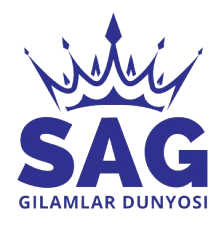
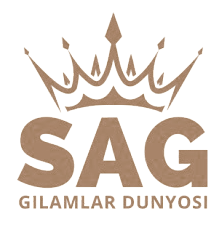
color changed

diff --git a/src/components/LanguageSelector.tsx b/src/components/LanguageSelector.tsx
@@ -1,33 +1,67 @@
+import { useEffect, useRef, useState } from 'react';
 import { useLanguage } from '../contexts/LanguageContext';
 
-interface LanguageSelectorProps {
-  navActive: boolean; // To style buttons based on navbar background
-  className?: string; // Optional for additional styling
-}
 type LanguageCode = 'uzb' | 'rus' | 'en';
 
-export const LanguageSelector = ({ navActive, className = "" }: LanguageSelectorProps): JSX.Element => {
-  const { language, setLanguage } = useLanguage();
-
- const languages: { code: LanguageCode; label: string }[] = [
+const languages: { code: LanguageCode; label: string }[] = [
   { code: 'uzb', label: "O'z" },
   { code: 'rus', label: 'Ru' },
   { code: 'en', label: 'En' },
 ];
 
+interface LanguageSelectorProps {
+  className?: string;
+  navActive: boolean;
+}
+
+export const LanguageSelector = ({ className = "", navActive }: LanguageSelectorProps): JSX.Element => {
+  const { language, setLanguage } = useLanguage();
+  const [isOpen, setIsOpen] = useState(false);
+  const dropdownRef = useRef<HTMLDivElement>(null);
+
+  // Close on outside click
+  useEffect(() => {
+    const handleClickOutside = (event: MouseEvent) => {
+      if (dropdownRef.current && !dropdownRef.current.contains(event.target as Node)) {
+        setIsOpen(false);
+      }
+    };
+
+    document.addEventListener("mousedown", handleClickOutside);
+    return () => {
+      document.removeEventListener("mousedown", handleClickOutside);
+    };
+  }, []);
+
+  const currentLang = languages.find((l) => l.code === language);
+
   return (
-    <div className={`flex items-center gap-3 ${className}`}>
-      {languages.map((lang) => (
-        <button
-          key={lang.code}
-          className={`text-[13.8px] ${language === lang.code ? 'font-bold underline' : ''} ${
-            navActive ? 'text-black' : 'text-white'
-          }`}
-          onClick={() => setLanguage(lang.code)}
-        >
-          {lang.label}
-        </button>
-      ))}
+    <div ref={dropdownRef} className={`relative ${className}`}>
+      <button
+        onClick={() => setIsOpen(!isOpen)}
+        className={`text-[13.8px] ${navActive ? 'text-black' : 'text-white'} font-semibold`}
+      >
+        {currentLang?.label}
+      </button>
+
+      {isOpen && (
+        <div className="absolute mt-2 right-0 bg-white shadow-lg border rounded z-50">
+          {languages
+            .filter((lang) => lang.code !== language) // tanlangan tilni chiqarma
+            .map((lang) => (
+              <button
+                key={lang.code}
+                onClick={() => {
+                  setLanguage(lang.code);
+                  setIsOpen(false);
+                }}
+                className="block px-4 py-2 text-sm text-left w-full text-black hover:bg-gray-100"
+              >
+                {lang.label}
+              </button>
+            ))}
+        </div>
+      )}
     </div>
   );
 };

diff --git a/src/screens/PurchaseModal.tsx b/src/screens/PurchaseModal.tsx
@@ -25,7 +25,7 @@ const PurchaseModal: React.FC<PurchaseModalProps> = ({ isOpen, onClose }) => {
       onClick={handleBackgroundClick}
       className="fixed inset-0 bg-black bg-opacity-40 flex items-center justify-center z-50"
     >
-      <div className="bg-white p-6 rounded-md w-full max-w-2xl relative shadow-lg">
+      <div className="bg-[#FFFCE0] p-6 rounded-md w-full max-w-2xl relative shadow-lg">
         {/* Close button */}
         <button
           className="absolute top-3 right-3 text-gray-500 hover:text-gray-700"
@@ -40,15 +40,15 @@ const PurchaseModal: React.FC<PurchaseModalProps> = ({ isOpen, onClose }) => {
           <div className="grid grid-cols-1 md:grid-cols-2 gap-4">
             <div>
               <label className="block text-sm font-medium text-gray-700">Ism</label>
-              <input type="text" className="w-full border border-gray-300 p-2 rounded" placeholder="Ismingiz" />
+              <input type="text" className="w-full bg-[#FFFCE0] border border-gray-300 p-2 rounded" placeholder="Ismingiz" />
             </div>
             <div>
               <label className="block text-sm font-medium text-gray-700">Telefon raqam</label>
-              <input type="tel" className="w-full border border-gray-300 p-2 rounded" placeholder="+998901234567" />
+              <input type="tel" className="w-full bg-[#FFFCE0] border border-gray-300 p-2 rounded" placeholder="+998901234567" />
             </div>
             <div>
               <label className="block text-sm font-medium text-gray-700">Shahar / Viloyat</label>
-              <select className="w-full border border-gray-300 p-2 rounded">
+              <select className="w-full border bg-[#FFFCE0] border-gray-300 p-2 rounded">
                 <option value="">Tanlang</option>
                 {cities.map((city, idx) => (
                   <option key={idx} value={city}>{city}</option>
@@ -57,13 +57,13 @@ const PurchaseModal: React.FC<PurchaseModalProps> = ({ isOpen, onClose }) => {
             </div>
             <div>
               <label className="block text-sm font-medium text-gray-700">Manzil</label>
-              <input type="text" className="w-full border border-gray-300 p-2 rounded" placeholder="To‘liq manzil" />
+              <input type="text" className="w-full bg-[#FFFCE0] border border-gray-300 p-2 rounded" placeholder="To‘liq manzil" />
             </div>
           </div>
 
           <div>
             <label className="block text-sm font-medium text-gray-700">Izoh</label>
-            <textarea className="w-full border border-gray-300 p-2 rounded" rows={3} placeholder="Qo‘shimcha izohlar..." />
+            <textarea className="w-full border bg-[#FFFCE0] border-gray-300 p-2 rounded" rows={3} placeholder="Qo‘shimcha izohlar..." />
           </div>
 
           <button type="submit" className="w-full bg-blue-900 hover:bg-blue-800 text-white py-2 rounded">

diff --git a/src/screens/CatalogProductsPage/ProductCard.tsx b/src/screens/CatalogProductsPage/ProductCard.tsx
@@ -23,7 +23,7 @@ const ProductCard = ({ id, name, isNew, isOnSale, price, image }: ProductCardPro
 
   return (
     <Link to={`/product/${id}`} className="group">
-      <div className="bg-white shadow-sm border-gray-200 overflow-hidden transition-shadow hover:shadow-md">
+      <div className=" shadow-md border-gray-200 overflow-hidden transition-shadow hover:shadow-md">
         <div className="relative bg-gray-100">
           <img
             src={image || 'https://via.placeholder.com/300x400?text=No+Image'}
@@ -33,7 +33,7 @@ const ProductCard = ({ id, name, isNew, isOnSale, price, image }: ProductCardPro
 
           {isNew && (
             <div className="absolute top-0 right-0 w-[30px] h-[30px] sm:w-[60px] sm:h-[60px]">
-              <div className="absolute top-0 right-0 w-0 h-0 border-t-[60px] border-t-white border-l-[60px] border-l-transparent z-10 sm:border-t-[100px] sm:border-l-[100px]" />
+              <div className="absolute top-0 right-0 w-0 h-0 border-t-[60px] border-t-[#FFFCE0] border-l-[60px] border-l-transparent z-10 sm:border-t-[100px] sm:border-l-[100px]" />
               <div className="absolute top-0 right-0 w-0 h-0 border-t-[60px] border-t-green-600 border-l-[60px] border-l-transparent z-20 rotate-180 sm:border-t-[100px] sm:border-l-[100px]" />
               <span className="absolute top-[38px] right-[19px] text-white text-[8px] font-bold z-30 sm:top-[70px] sm:right-[37px] sm:text-[13px]">
                 {t('badge.new')}
@@ -43,7 +43,7 @@ const ProductCard = ({ id, name, isNew, isOnSale, price, image }: ProductCardPro
 
           {isOnSale && (
             <div className="absolute top-0 right-0 w-[30px] h-[30px] sm:w-[60px] sm:h-[60px]">
-              <div className="absolute top-0 right-0 w-0 h-0 border-t-[60px] border-t-white border-l-[60px] border-l-transparent z-10 sm:border-t-[100px] sm:border-l-[100px]" />
+              <div className="absolute top-0 right-0 w-0 h-0 border-t-[60px] border-t-[#FFFCE0] border-l-[60px] border-l-transparent z-10 sm:border-t-[100px] sm:border-l-[100px]" />
               <div className="absolute top-0 right-0 w-0 h-0 border-t-[60px] border-t-red-500 border-l-[60px] border-l-transparent z-20 rotate-180 sm:border-t-[100px] sm:border-l-[100px]" />
               <span className="absolute top-[38px] right-[19px] text-white text-[8px] font-bold z-30 sm:top-[70px] sm:right-[37px] sm:text-[13px]">
                 {t('badge.sale')}

diff --git a/src/screens/CatalogPage/ProductCard.tsx b/src/screens/CatalogPage/ProductCard.tsx
@@ -15,7 +15,7 @@ const ProductCard = ({ id, name, isNew, isOnSale, image }: ProductCardProps) => 
   const { t } = useLanguage();
   return (
 <Link to={`/catalog/${id}`} className="group">
-  <div className="bg-white shadow-sm  border-gray-200 overflow-hidden transition-shadow hover:shadow-md">
+  <div className=" shadow-md  border-gray-200 overflow-hidden transition-shadow hover:shadow-md">
     <div className="relative bg-gray-100">
       <img
         src={image}
@@ -25,7 +25,7 @@ const ProductCard = ({ id, name, isNew, isOnSale, image }: ProductCardProps) => 
 
           {isNew && (
             <div className="absolute top-0 right-0 w-[30px] h-[30px] sm:w-[60px] sm:h-[60px]">
-              <div className="absolute top-0 right-0 w-0 h-0 border-t-[60px] border-t-white border-l-[60px] border-l-transparent z-10 sm:border-t-[100px] sm:border-l-[100px]" />
+              <div className="absolute top-0 right-0 w-0 h-0 border-t-[60px] border-t-[#FFFCE0] border-l-[60px] border-l-transparent z-10 sm:border-t-[100px] sm:border-l-[100px]" />
               <div className="absolute top-0 right-0 w-0 h-0 border-t-[60px] border-t-green-600 border-l-[60px] border-l-transparent z-20 rotate-180 sm:border-t-[100px] sm:border-l-[100px]" />
               <span className="absolute top-[38px] right-[19px] text-white text-[8px] font-bold z-30 sm:top-[70px] sm:right-[37px] sm:text-[13px]">
                 {t('badge.new')}
@@ -35,7 +35,7 @@ const ProductCard = ({ id, name, isNew, isOnSale, image }: ProductCardProps) => 
 
            {isOnSale && (
             <div className="absolute top-0 right-0 w-[30px] h-[30px] sm:w-[60px] sm:h-[60px]">
-              <div className="absolute top-0 right-0 w-0 h-0 border-t-[60px] border-t-white border-l-[60px] border-l-transparent z-10 sm:border-t-[100px] sm:border-l-[100px]" />
+              <div className="absolute top-0 right-0 w-0 h-0 border-t-[60px] border-t-[#FFFCE0] border-l-[60px] border-l-transparent z-10 sm:border-t-[100px] sm:border-l-[100px]" />
               <div className="absolute top-0 right-0 w-0 h-0 border-t-[60px] border-t-red-500 border-l-[60px] border-l-transparent z-20 rotate-180 sm:border-t-[100px] sm:border-l-[100px]" />
               <span className="absolute top-[38px] right-[19px] text-white text-[8px] font-bold z-30 sm:top-[70px] sm:right-[37px] sm:text-[13px]">
                 {t('badge.sale')}

diff --git a/src/screens/SalesPage/ProductCardSales.tsx b/src/screens/SalesPage/ProductCardSales.tsx
@@ -14,7 +14,7 @@ const ProductCard = ({ id, name, isOnSale }: ProductCardProps) => {
   const { t } = useLanguage();
   return (
 <Link to={`/product/${id}`} state={{ from: 'sales' }} className="group">
-  <div className="bg-white shadow-sm  border-gray-200 overflow-hidden transition-shadow hover:shadow-md">
+  <div className=" shadow-md  border-gray-200 overflow-hidden transition-shadow hover:shadow-md">
     <div className="relative bg-gray-100">
       <img
         src="https://www.sagexpress.uz/media/product/c5c71e93-5878-4687-a3df-04bfa2157717.jpg"
@@ -24,7 +24,7 @@ const ProductCard = ({ id, name, isOnSale }: ProductCardProps) => {
 
             {isOnSale && (
             <div className="absolute top-0 right-0 w-[60px] h-[60px]">
-              <div className="absolute top-0 right-0 w-0 h-0 border-t-[100px] border-t-white border-l-[100px] border-l-transparent z-10" />
+              <div className="absolute top-0 right-0 w-0 h-0 border-t-[100px] border-t-[#FFFCE0] border-l-[100px] border-l-transparent z-10" />
 
               <div className="absolute top-0 right-0 w-0 h-0 border-t-[100px] border-t-red-500 border-l-[100px] border-l-transparent z-20 rotate-180" />
 

diff --git a/src/screens/SalesPage/ProductCard.tsx b/src/screens/SalesPage/ProductCard.tsx
@@ -14,7 +14,7 @@ const ProductCard = ({ id, name, isOnSale }: ProductCardProps) => {
   const { t } = useLanguage();
   return (
 <Link to={`/product-sales/${id}`} state={{ from: 'sales' }} className="group">
-  <div className="bg-white shadow-sm  border-gray-200 overflow-hidden transition-shadow hover:shadow-md">
+  <div className=" shadow-md  border-gray-200 overflow-hidden transition-shadow hover:shadow-md">
     <div className="relative bg-gray-100">
       <img
         src="https://www.sagexpress.uz/media/images/products/LU5238_BS73.png"
@@ -24,7 +24,7 @@ const ProductCard = ({ id, name, isOnSale }: ProductCardProps) => {
 
            {isOnSale && (
             <div className="absolute top-0 right-0 w-[60px] h-[60px]">
-              <div className="absolute top-0 right-0 w-0 h-0 border-t-[100px] border-t-white border-l-[100px] border-l-transparent z-10" />
+              <div className="absolute top-0 right-0 w-0 h-0 border-t-[100px] border-t-[#FFFCE0] border-l-[100px] border-l-transparent z-10" />
 
               <div className="absolute top-0 right-0 w-0 h-0 border-t-[100px] border-t-red-500 border-l-[100px] border-l-transparent z-20 rotate-180" />
 

diff --git a/src/components/Navbar.tsx b/src/components/Navbar.tsx
@@ -118,7 +118,7 @@ useEffect(() => {
     <nav
       ref={navRef}
       className={`fixed top-0 left-0 md:py-5 py-3 w-full transition-colors z-30 duration-300 ${
-        navActive ? "bg-white text-black shadow" : "bg-transparent text-white"
+        navActive ? "bg-[#FFFCE0] text-black shadow" : "bg-transparent text-white"
       }`}
       onMouseEnter={() => setHovered(true)}
       onMouseLeave={() => setHovered(false)}
@@ -153,7 +153,7 @@ useEffect(() => {
                     <Link to={item.path}>{t(item.key)}</Link>
                   </NavigationMenuLink>
                   {item.key === 'nav.catalog' && isCatalogDropdownOpen && (
-                    <div className="absolute w-32 top-full left-0 bg-white text-black shadow-lg z-40">
+                    <div className="absolute w-32 top-full left-0 bg-[#FFFCE0] text-black shadow-lg z-40">
                       {item.subItems?.map((subItem) => (
                         <Link
                           key={subItem.key}

diff --git a/src/screens/AppartmentPage/AppartmentProducts.tsx b/src/screens/AppartmentPage/AppartmentProducts.tsx
@@ -25,7 +25,7 @@ const AppartmentProducts = ({ id, name }: AppartmentProductsProps) => {
   return (
     <>
       <div className="group cursor-pointer" onClick={handleCardClick}>
-        <div className="bg-white shadow-sm border-gray-200 overflow-hidden transition-shadow hover:shadow-md">
+        <div className=" shadow-md border-gray-200 overflow-hidden transition-shadow hover:shadow-md">
           <div className="relative bg-gray-100">
             <img
               src="https://www.sagexpress.uz/media/product/c5c71e93-5878-4687-a3df-04bfa2157717.jpg"

diff --git a/src/screens/AppartmentPage/AppartmentCategory.tsx b/src/screens/AppartmentPage/AppartmentCategory.tsx
@@ -14,7 +14,7 @@ const AppartmentCategory = ({ id, name, isOnSale }: ProductCardProps) => {
   const { t } = useLanguage();
   return (
 <Link to={`/product-rooms/${id}`} state={{ from: 'sales' }} className="group">
-  <div className="bg-white shadow-sm  border-gray-200 overflow-hidden transition-shadow hover:shadow-md">
+  <div className=" shadow-md  border-gray-200 overflow-hidden transition-shadow hover:shadow-md">
     <div className="relative bg-gray-100">
       <img
         src="https://www.sagexpress.uz/media/images/products/LU5238_BS73.png"

diff --git a/src/screens/CatalogProductsPage/Catalog.tsx b/src/screens/CatalogProductsPage/Catalog.tsx
@@ -99,7 +99,7 @@ const Catalog = () => {
     const currentRugs = sortedRugs.slice(startIndex, startIndex + itemsPerPage);
 
     return (
-        <div className="bg-[#FAF9F7] md:pt-28 pt-24">
+        <div className="bg-[#FFFCE0] md:pt-28 pt-24">
             <div className="container mx-auto px-4 py-6">
                 <div className="mb-6">
                     <div className="flex md:mb-12 mb-7 items-center text-base text-gray-600  ">

diff --git a/src/components/RegionModal.tsx b/src/components/RegionModal.tsx
@@ -36,7 +36,7 @@ export const RegionModal = ({
         onClick={onCloseSelect}
       >
         <div
-          className="bg-white rounded shadow-lg p-6 min-w-[400px] max-w-[95vw] max-h-[90vh] overflow-y-auto relative"
+          className="bg-[#FFFCE0] rounded shadow-lg p-6 min-w-[400px] max-w-[95vw] max-h-[90vh] overflow-y-auto relative"
           onClick={e => e.stopPropagation()}
         >
           <button

diff --git a/src/screens/HomePage/sections/ContactInfoSection/ContactInfoSection.tsx b/src/screens/HomePage/sections/ContactInfoSection/ContactInfoSection.tsx
@@ -44,7 +44,7 @@ export const ContactInfoSection = (): JSX.Element => {
   ];
 
   return (
-    <footer className=" bg-white  py-8">
+    <footer className=" bg-[#FFFCE0]  py-8">
       <Card className="border-none shadow-none container mx-auto ">
         <CardContent className="p-0">
           <div className="flex flex-col md:flex-row justify-between gap-6 md:gap-4 text-center md:text-left">
